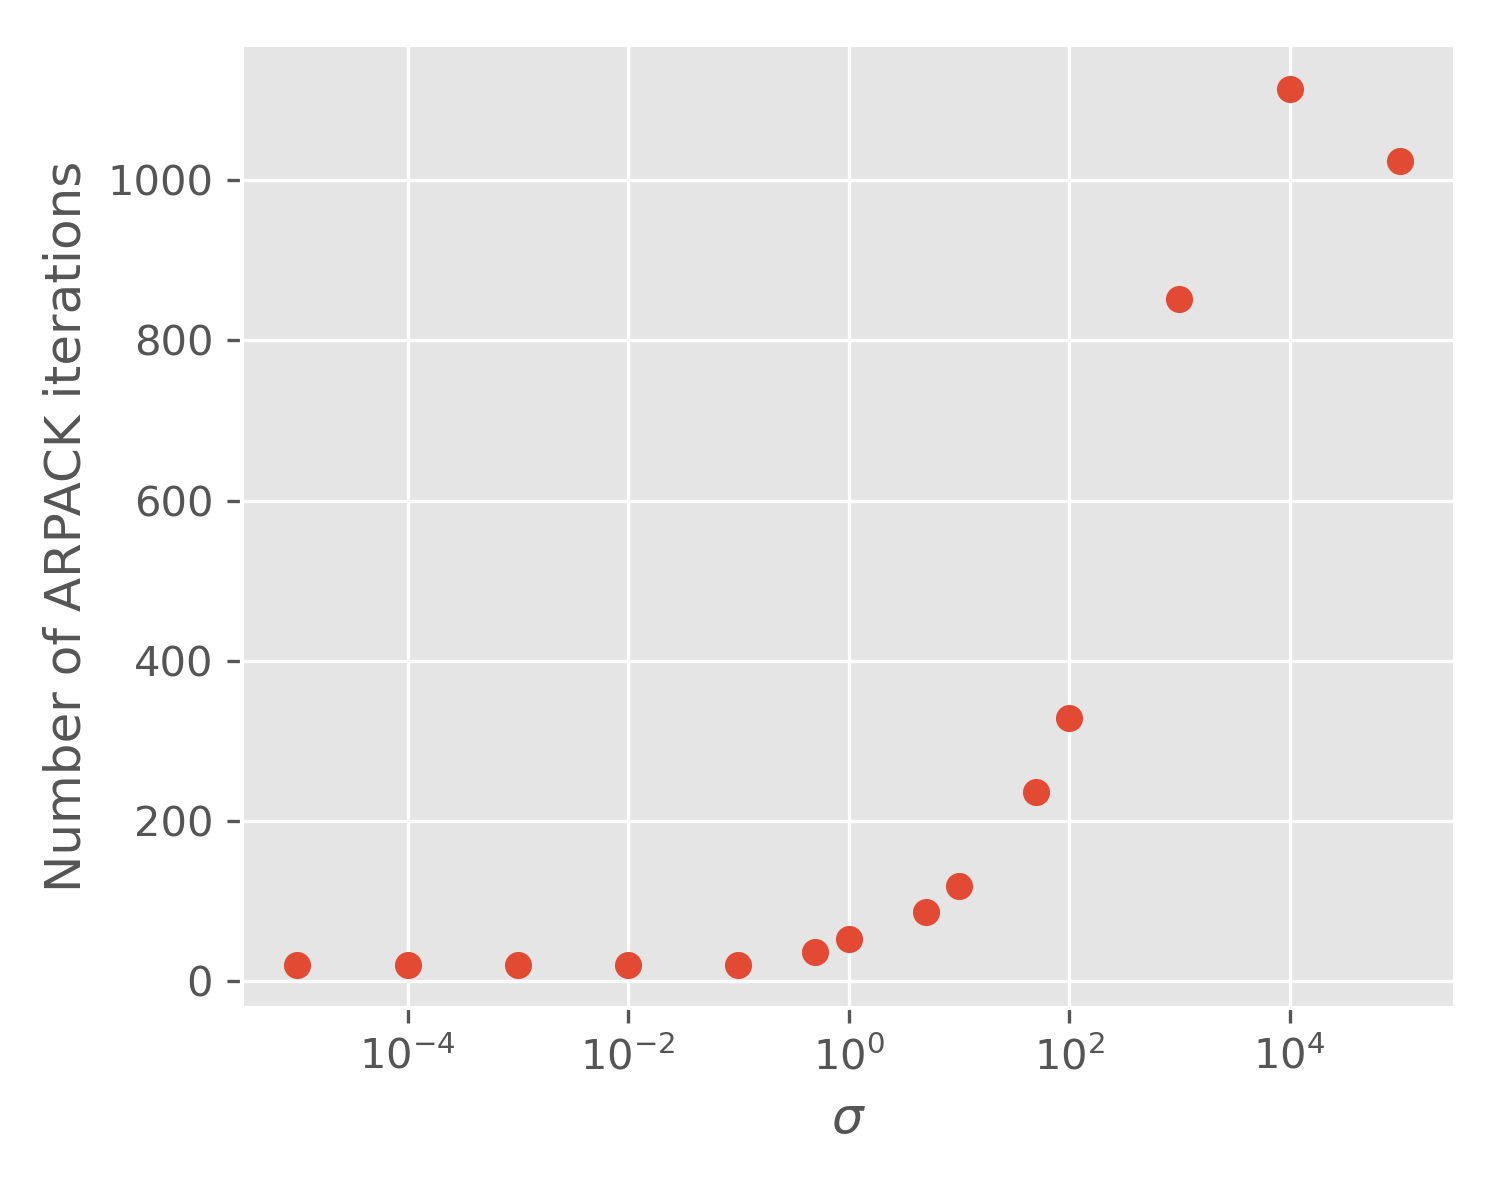
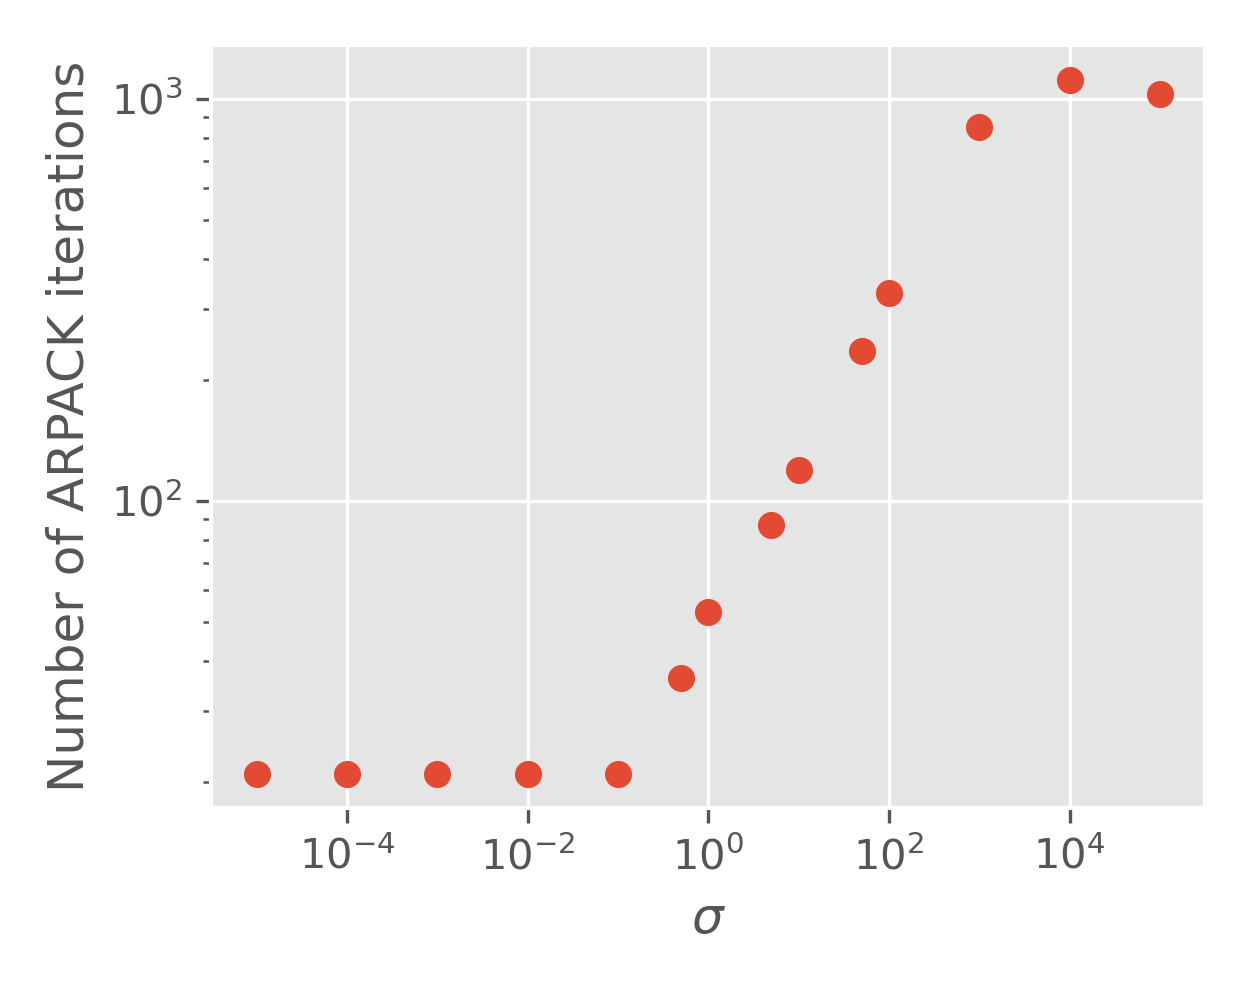
more changes + log plot

diff --git a/main.tex b/main.tex
@@ -7,6 +7,7 @@
 \usepackage{aas_macros}% Resolve ADS journal macros such as \jcap in BibTeX
 \usepackage{tikz}
 \usepackage{booktabs}
+\usepackage{subcaption}
 \usetikzlibrary{arrows.meta, positioning, shapes.geometric, fit}
 \usepackage{soul} % for highlighting
 \usepackage[normalem]{ulem} %for \sout
@@ -83,12 +84,6 @@ large spins or extreme mass ratios.  The AKV method is
 solved on a single core, since it was (incorrectly) assumed to be a
 small computational cost compared to the remainder of the BBH
 evolution.
-
-\Me{Although it should be possible to parallelize the
-algorithm, especially for next-generation codes like SpECTRE
-\cite{spectrecode} with better parallelism infrastructure than SpEC,
-improving the basic algorithm is preferable to allocating more
-computational resources that are needed elsewhere.}
 
 The outline of this paper is as follows. Section \ref{sec:AKV spin definition} has some mathematical background about how the AKV spins are defined. Then, in Section \ref{sec:Current AKV algorithm}, we briefly describe the existing algorithm and why it slows down rapidly as the systems being evolved get complicated. In Section \ref{sec:Sparse AKV algorithm}, we describe the new algorithm, which is much faster. Finally, we discuss possible future improvements in Section \ref{sec:Future improvements} and present conclusions in Section \ref{sec:Conclusion}.
 
@@ -195,9 +190,7 @@ Apparent horizons in SpEC are represented using spherical harmonics. When the bl
   \label{fig:HPC_all_in_one}
 \end{figure}
 
-The number of rows in $M$ and $B$ matrices is $N = (L-1)^2 -1$. The reason for $L-1$ is that even though we have $L+1$ modes, we take second derivatives and that pollutes the two highest modes. The term $-1$ is because we ignore $Y_{00}$, as described in Sec.(\ref{sec:AKV spin definition}). We only need the eigenvectors corresponding to the three smallest eigenvalues, but using LAPACK's dense solver (\texttt{dggev}) means we always compute all eigenvalues ($L^2$ in number)
-\Note{MS: footnotes are confusingly mixed into the references.  If this behavior is required by CQG, then please don't use footnotes because it is impossible to tell the difference between a footnote and a reference in the text. If this behavior is not required by CQG, then please fix the footnotes so they appear at the bottom of the page}.
-\footnote{There are variations of LAPACK's \texttt{dggev} that can find just the eigenvectors corresponding to the smallest three eigenvalues, but they provide very little speedup as explained at https://www.netlib.org/lapack/lug/node70.html. In short, before finding the eigenvectors, LAPACK does a reduction of the eigensystem, and this ends up being the most costly operation. Once the reduction is done finding the eigenvectors itself is comparatively cheap, which means that finding just a few eigenvectors is not significantly faster than finding all of them.}. The theoretical time complexity of LAPACK's \texttt{dggev} solver is $O(N^3)$, or equivalently $O(L^6)$. This is the reason why the cost of \texttt{dggev} is irrelevant for most of the inspiral until we get close to merger, where it starts to increase rapidly. In our simulations, we have found the scaling to be closer to $O(L^7)$, as can be seen from Figs.(\ref{fig:HPC_all_in_one}) and (\ref{fig:PC_all_in_one}). We suspect that the slightly worse scaling may be due to memory pressure since the matrix has $\mathcal{O}(L^4)$ elements, although we have not rigorously verified this.
+The number of rows in $M$ and $B$ matrices is $N = (L-1)^2 -1$. The reason for $L-1$ is that even though we have $L+1$ modes, we take second derivatives and that pollutes the two highest modes. The term $-1$ is because we ignore $Y_{00}$, as described in Sec.(\ref{sec:AKV spin definition}). We only need the eigenvectors corresponding to the three smallest eigenvalues, but using LAPACK's dense solver (\texttt{dggev}) means we always compute all eigenvalues ($L^2$ in number) \footnote{There are variations of LAPACK's \texttt{dggev} that can find just the eigenvectors corresponding to the smallest three eigenvalues, but they provide very little speedup as explained at https://www.netlib.org/lapack/lug/node70.html. In short, before finding the eigenvectors, LAPACK does a reduction of the eigensystem, and this ends up being the most costly operation. Once the reduction is done finding the eigenvectors itself is comparatively cheap, which means that finding just a few eigenvectors is not significantly faster than finding all of them.}. The theoretical time complexity of LAPACK's \texttt{dggev} solver is $O(N^3)$, or equivalently $O(L^6)$. This is the reason why the cost of \texttt{dggev} is irrelevant for most of the inspiral until we get close to merger, where it starts to increase rapidly. In our simulations, we have found the scaling to be closer to $O(L^7)$, as can be seen from Figs.(\ref{fig:HPC_all_in_one}) and (\ref{fig:PC_all_in_one}). We suspect that the slightly worse scaling may be due to memory pressure since the matrix has $\mathcal{O}(L^4)$ elements, although we have not rigorously verified this.
 
 \begin{table}[h]
 \centering
@@ -229,7 +222,7 @@ For some simulations, each such spin calculation took over 30 minutes on a singl
 
 \section{\label{sec:Sparse AKV algorithm} Sparse AKV algorithm}
 
-From the previous Section~\ref{sec:Current AKV algorithm}, we saw that the primary cause of the poor scaling of the current AKV algorithm is the LAPACK routine \texttt{dggev}, which solves for the whole eigensystem. To find the AKV spin we only require the three smallest eigenvalues and their corresponding eigenvectors. There are standard iterative algorithms, implemented in libraries like ARPACK, that can find just the required eigenpairs very efficiently. For a highly deformed horizon, where $L\approx100$, \texttt{dggev} finds all the $\approx 10^4$ eigenpairs and we can reduce the required computation by a lot if we only find the three required eigenpairs using ARPACK.
+From the previous Section~\ref{sec:Current AKV algorithm}, we saw that the primary cause of the poor scaling of the current AKV algorithm is the LAPACK routine \texttt{dggev}, which solves for the whole eigensystem. To find the AKV spin we only require the three smallest eigenvalues and their corresponding eigenvectors. There are standard iterative algorithms, implemented in libraries like ARPACK, that can find just the required eigenpairs very efficiently. For a highly deformed horizon, where $L\approx100$, \texttt{dggev} finds all the $\approx 10^4$ eigenpairs and we can reduce the required computation by a lot if we only find the three required eigenpairs using ARPACK. To find an eigenpair ARAPCK just needs a series of matrix vector products until it converges to the required solution. Because we only need three eigenpairs, theoretically the computational complexity of using ARPACK is $O(L^4)$ which is much better than the computational complexity of \texttt{dggev} ($O(L^6)$).
 
 In the following sections we will first discuss issues that ARPACK has in trying to find the eigenvalues with very small magnitude and how to resolve them. Then we will discuss the cost of assembling the matrices $M$ and $B$. Finally, we will discuss the cost of getting the action of the inverse of these matrices required by ARPACK.
 
@@ -277,13 +270,13 @@ After a shift-invert transform:
     (M - \sigma B)^{-1} B x = \nu x , 
     \label{eqn:shift_inverted_equation}
 \end{equation}  
-where
+where $\sigma$ is a free parameter we can choose, and
 \begin{equation}
-    \nu = \frac{1}{\lambda - \sigma},
+    \nu = \frac{1}{\lambda - \sigma}.
     \label{eqn:shift_invert_evals_relation}
 \end{equation}
 
-and $\sigma$ is a free parameter we can choose. The first thing to observe is that both problems have the same eigenvectors, while the corresponding eigenvalues are related via Eq.(\ref{eqn:shift_invert_evals_relation}). From Eq.(\ref{eqn:shift_invert_evals_relation}), we see that among the new eigenvalues \ref{eqn:shift_inverted_equation}, $\nu$ is largest for the values of $\lambda$ that are closest to $\sigma$. So if we want to find the three smallest eigenvalues, we should just set $\sigma = 0$ and solve the eigensystem (\ref{eqn:shift_inverted_equation}). This will work until one of the eigenvalues gets too close to $\sigma$, and then the condition number of the matrix $M-\sigma B$ will diverge. One could consider shifting the value of $\sigma$ a little away from zero, but then we will find the three eigenvalues closest to $\sigma$ and not the three smallest eigenvalues.
+The first thing to observe is that both problems have the same eigenvectors, while the corresponding eigenvalues are related via Eq.(\ref{eqn:shift_invert_evals_relation}). From Eq.(\ref{eqn:shift_invert_evals_relation}), we see that among the new eigenvalues \ref{eqn:shift_inverted_equation}, $\nu$ is largest for the values of $\lambda$ that are closest to $\sigma$. So if we want to find the three smallest eigenvalues, we should just set $\sigma = 0$ and solve the eigensystem (\ref{eqn:shift_inverted_equation}). This will work until one of the eigenvalues gets too close to $\sigma$, and then the condition number of the matrix $M-\sigma B$ will diverge. One could consider shifting the value of $\sigma$ a little away from zero, but then we will find the three eigenvalues closest to $\sigma$ and not the three smallest eigenvalues.
 
 This is not an issue if we are finding these eigenvectors in isolation, because we can always adjust the value of $\sigma$ slightly and then try again. In a long-running simulation where the eigenvalues keep changing, we cannot afford to suddenly have slightly wrong eigenvectors because one of the eigenvalues drifts too close to the value of $\sigma$. Fortunately, since we are using the norm described in Eq.(\ref{eqn:Norm condition to be enforced using Lagrange multiplier}), the matrices $M$ and $B$ are positive semidefinite and negative semidefinite, respectively, which implies that the generalized eigenvalues $\lambda$ are non-positive.
 Thus any positive value of $\sigma$ will always give us the correct results. If we choose a small value for $\sigma$, then the eigenvalues we need will be well separated and large, making ARPACK very efficient in finding them. But we do not want $\sigma$ to be too small because that makes the matrix $M-\sigma B$ ill-conditioned. This means that there is an ideal value of $\sigma$ that makes the smallest eigenvalues as big as possible without making the matrix $M - \sigma B$ too ill-conditioned. Figs.(\ref{fig:HPC_condition_number}) and (\ref{fig:LU_solve_nums_L50}) show how the condition number of $(M- \sigma B)$ and the number of iterations taken by ARPACK depend on $\sigma$. For these two figures, $M$ and $B$ were generated using the horizon of a Kerr-Schild metric with spin equal to (0,0,0.5) and mass equal to 1. These figures change for different shapes of the apparent horizons, but the same overall trend is always present. For now, we have decided to choose $\sigma = 0.1$, which has worked well for the systems we have simulated.
@@ -335,26 +328,29 @@ Note that not all norms lead to eigenvalue problems where all the eigenvalues ar
 
 \begin{figure}[t]
   \centering
-  \includegraphics[width=0.45\textwidth]{./images/condition_number_vs_sigma.png}
-  \caption{Dependence of the condition number of the matrix $M-\sigma B$ on $\sigma$ for different $L$. The matrices were generated for a test Kerr-Schild metric with spin equal to (0,0,0.5) and mass equal to 1. Note that the condition number also gets worse as the number of modes $L$ required to represent the horizon increases. The behavior will depend on the shape of the black hole horizons, but for the systems we tested, having a small $\sigma$ always showed this blowup because most of the time one of the eigenvalues is close to zero.}  \label{fig:HPC_condition_number}
-\end{figure}
-
-
-\begin{figure}[t]
-  \centering
-  \includegraphics[width=0.45\textwidth]{./images/LU_solve_nums_L50.png}
-  \caption{Number of ARPACK iterations required to converge.
-    Since ARPACK needs one LU solve per iteration, this also represents the number of LU solves. Although this figure is for the same simple Kerr-Schild spacetime as Fig.(\ref{fig:HPC_condition_number}), the number of iterations rarely goes beyond 30 even for much more complicated systems. On the other hand, not having a good enough value of $\sigma$ makes the convergence very slow, as we can see from the graph. For the BBH simulations, we use $\sigma=0.1$, which we have found has a good balance between the number of iterations required by ARPACK and the condition number of the matrix $M -\sigma B$.}
-  \label{fig:LU_solve_nums_L50}
+  \begin{subfigure}[t]{0.48\textwidth}
+    \centering
+    \includegraphics[width=\linewidth]{./images/condition_number_vs_sigma.png}
+    \caption{Condition number of $M-\sigma B$ as a function of $\sigma$ for several values of $L$. The conditioning worsens as $L$ increases.}
+    \label{fig:HPC_condition_number}
+  \end{subfigure}\hfill
+  \begin{subfigure}[t]{0.48\textwidth}
+    \centering
+    \includegraphics[width=\linewidth]{./images/LU_solve_nums_L50.png}
+    \caption{Number of ARPACK iterations required for convergence at $L=50$. Each ARPACK iteration requires one LU solve.}
+    \label{fig:LU_solve_nums_L50}
+  \end{subfigure}
+  \caption{Trade-off in choosing the shift $\sigma$. Both panels use matrices generated from a Kerr-Schild horizon with mass 1 and spin $(0,0,0.5)$. Small values of $\sigma$ make $M-\sigma B$ poorly conditioned, whereas large values increase the number of ARPACK iterations. Although the quantitative behavior depends on the horizon geometry, the same general trend appears in the systems we tested. We use $\sigma=0.1$, which provides a good balance between conditioning and convergence.}
+  \label{fig:sigma_dependence}
 \end{figure}
 
 \subsection{\label{ssec:Cost of assembling the matrices} Cost of assembling the matrices}
 
-Recall that matrices $M$ and $B$ represent the discretization of the operators $H$ and $D^2$ that appear in Eq.(\ref{eqn:generalized eigenvalue problem}). It is not straightforward to derive explicit formulas for $M$ and $B$, but SpEC has two functions, $f_M(x)$ and $f_B(x)$, that give the action of the matrices $M$ and $B$ on a vector $x$. To generate the matrices, we need to operate on $N$ Cartesian basis vectors, which can be costly. From Table(\ref{table:timing_data_HPC}), we see that the cost of constructing the matrix is actually more than the cost of \texttt{dggev} for $L<25$. We expect the time complexity of generating the matrices $M$ and $B$ to be around $O(N^2)$, one $N$ because we need to act on $N$ basis vectors and another $N$ because the cost of functions $f_M(x)$ and $f_B(x)$ is $O(N)$. From Figs. (\ref{fig:HPC_all_in_one}) and (\ref{fig:PC_all_in_one}), we see that the cost lies between $O(L^{4.5})-O(L^5)$ depending on the system we are running on. This scaling behavior means that the cost of \texttt{dggev} quickly overtakes the cost of constructing the matrices, becoming the main bottleneck.
+Recall that matrices $M$ and $B$ represent the discretization of the operators $H$ and $D^2$ that appear in Eq.(\ref{eqn:generalized eigenvalue problem}). It is not straightforward to derive explicit formulas for $M$ and $B$, but SpEC has two functions, $f_M(x)$ and $f_B(x)$, that give the action of the matrices $M$ and $B$ on a vector $x$. To generate the matrices, we need to operate on $N$ Cartesian basis vectors, which can be costly. 
 
-It is important to consider the cost of the matrix generation because, in theory, we do not even need to construct these matrices when using ARPACK. Like many iterative algorithms, ARPACK can work directly with the functions $f_M(x)$ and $f_B(x)$, saving both memory and computation. Working in this matrix-free manner was our original plan, but it failed for reasons described in detail in Appendix (\ref{sec:Matrix-free version of the AKV algorithm}).
+It is important to consider the cost of the matrix generation because, in theory, we do not even need to construct these matrices when using ARPACK. From Table(\ref{table:timing_data_HPC}), we see that the cost of constructing the matrix is actually more than the cost of \texttt{dggev} for $L<25$. We expect the time complexity of generating the matrices $M$ and $B$ to be around $O(N^2)$, one $N$ because we need to act on $N$ basis vectors and another $N$ because the cost of functions $f_M(x)$ and $f_B(x)$ is $O(N)$. From Figs. (\ref{fig:HPC_all_in_one}) and (\ref{fig:PC_all_in_one}), we see that the cost lies between $O(L^{4.5})-O(L^5)$ depending on the system we are running on. This scaling behavior means that the cost of \texttt{dggev} quickly overtakes the cost of constructing the matrices, becoming the main bottleneck.
 
-The final version we ended up using involves constructing the full matrices $M$ and $B$, and we will assume that we have access to those in the later sections.
+Like many iterative algorithms, ARPACK can work directly with the functions $f_M(x)$ and $f_B(x)$, saving both memory and computation. Working in this matrix-free manner was our original plan, but it failed for reasons described in detail in Appendix (\ref{sec:Matrix-free version of the AKV algorithm}). The final version we ended up using involves constructing the full matrices $M$ and $B$, and we will assume that we have access to those in the later sections.
 
 \subsection{\label{ssec:action-of-shift-invert} Cost of \texorpdfstring{$(M-\sigma B)^{-1}$}{(M-sigma B)^(-1)}}
 
@@ -384,8 +380,7 @@ The simplest first possible improvement to try would be to get the matrix-free v
 
 Another possibility is to try to get a better preconditioner using the analytical properties of matrices, which will allow us to work in a matrix-free manner, avoiding the cost of building the matrices $M$ and $B$. The construction of the matrices requires $L^2$ calls to the functions $f_M$ and $f_B$, which is the bottleneck in the new algorithm. When using a matrix-free version, we need to use an iterative linear solver like GMRES, which will call these functions multiple times to get the action of $(M-\sigma B)^{-1}$. In our testing, we have found that with $\sigma = 0.1$, ARPACK typically requires fewer than 30 iterations to converge. For each ARPACK iteration, we need the linear solver to converge in less than $O(L)$ iterations (otherwise it will be faster to generate the full matrix), which is very hard to do without a good preconditioner. 
 
-Note that the matrix generation is an embarrassingly parallel problem where we apply the functions $f_{M}$ and $f_{B}$ on unit vectors one by one to construct the matrices. For large values of $L$, we can gain a good speedup by doing this in parallel.
-
+Note that the matrix generation is an embarrassingly parallel problem where we apply the functions $f_{M}$ and $f_{B}$ on unit vectors one by one to construct the matrices. For large values of $L$, we can gain a good speedup by doing this in parallel, especially for next-generation codes like SpECTRE \cite{spectrecode} with better parallelism infrastructure than SpEC.
 
 \section{\label{sec:Conclusion} Conclusion}
 